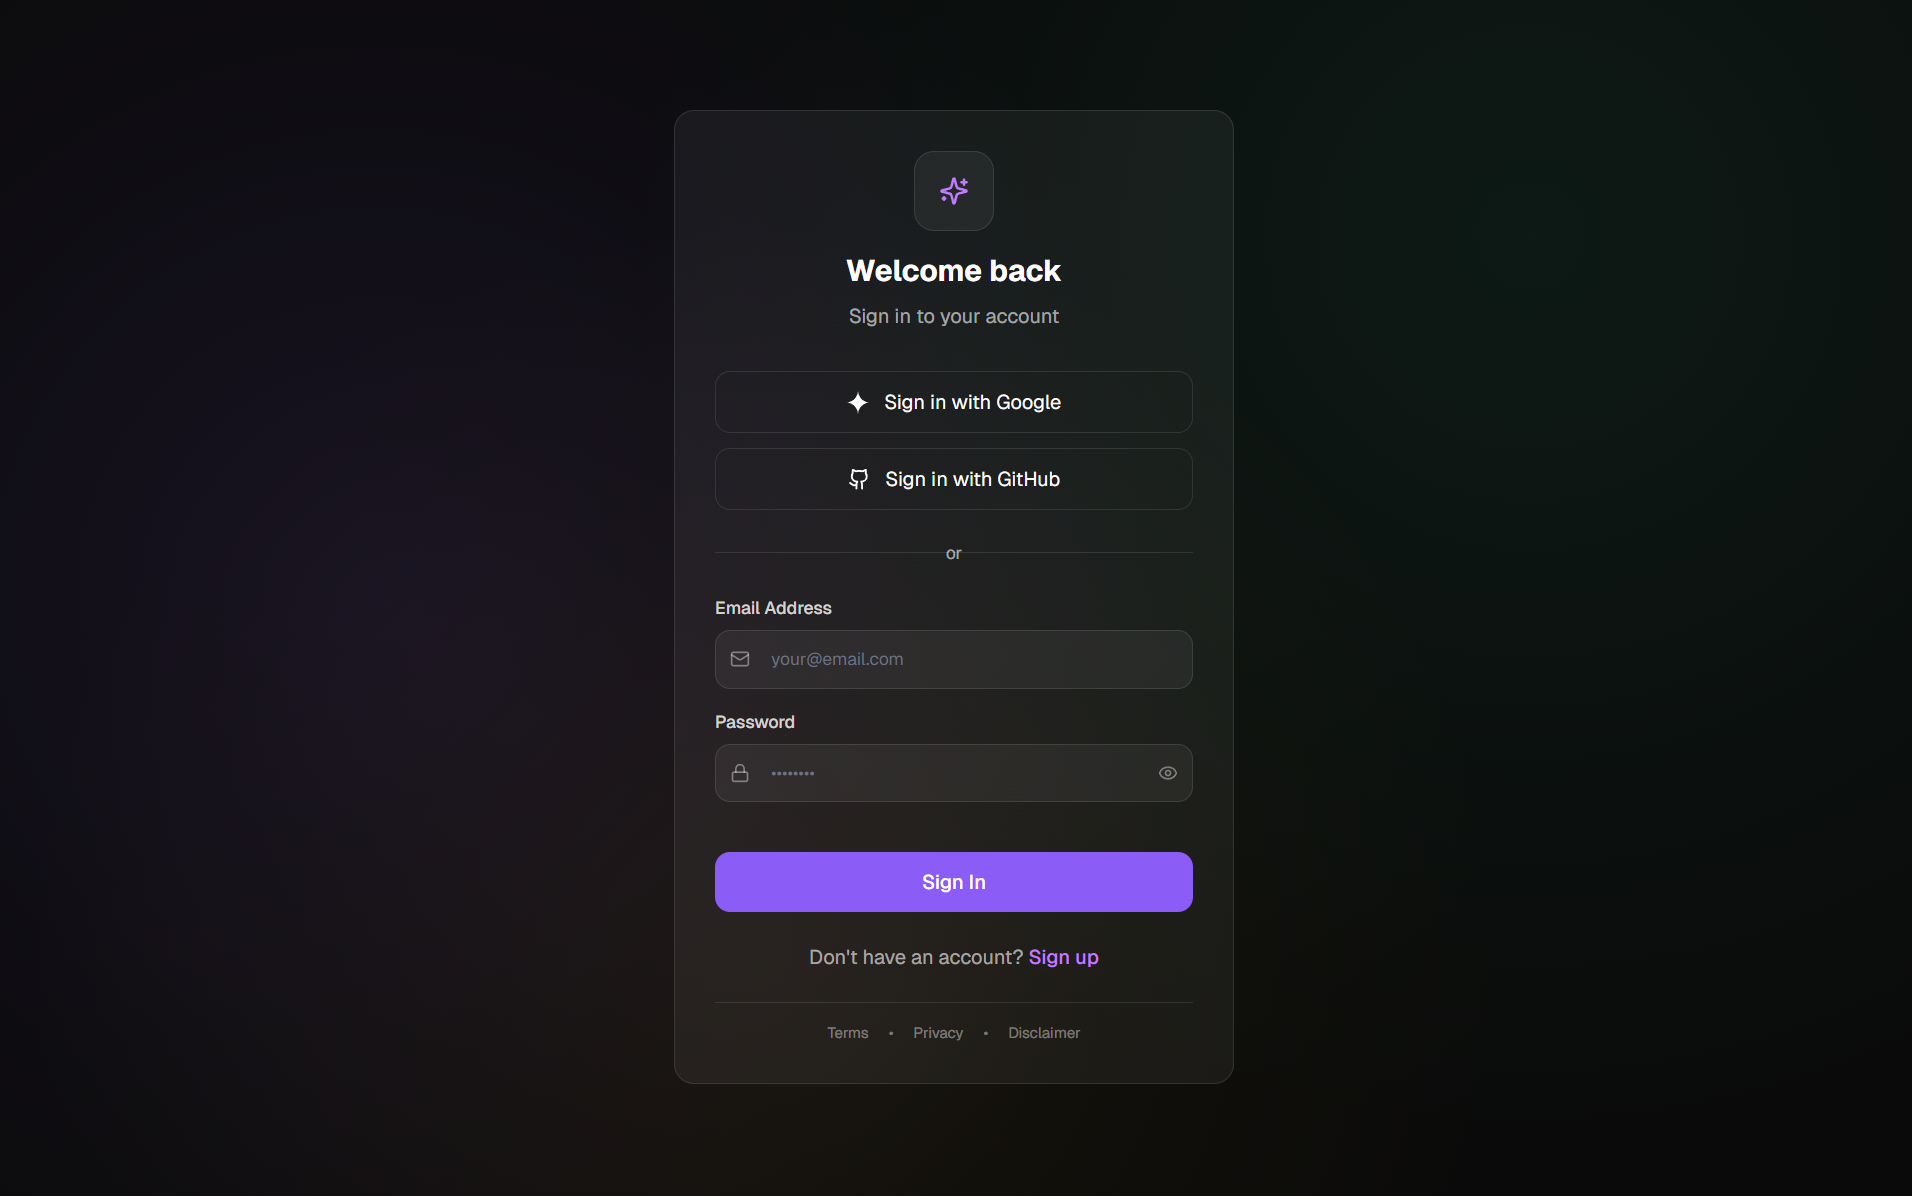
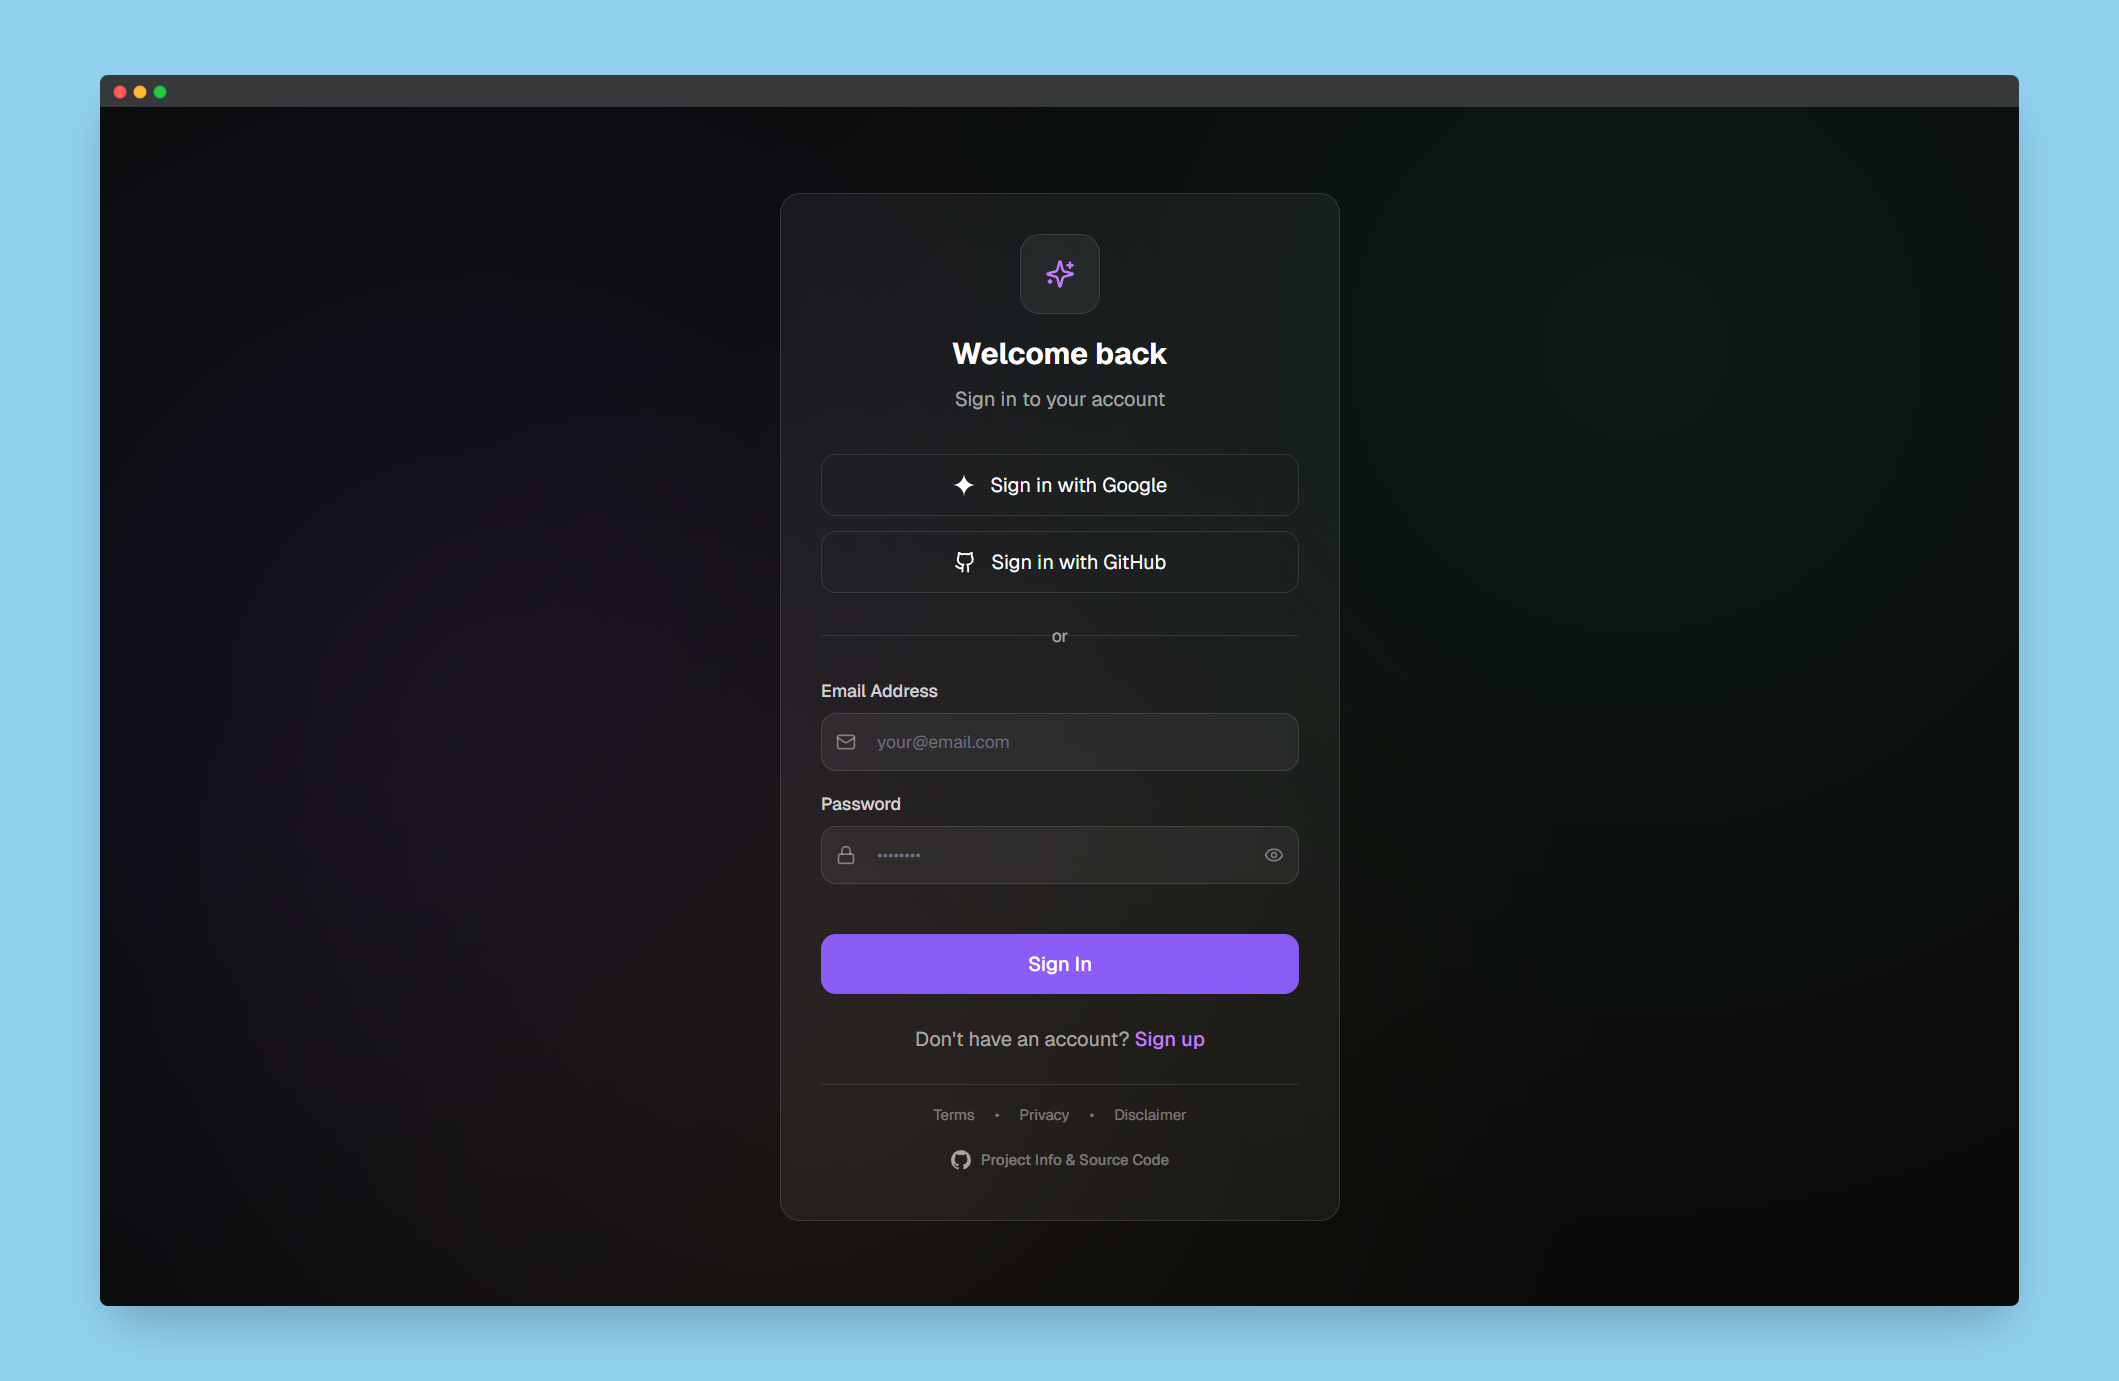
Update README.md to enhance project showcase with new sections and screenshots, including multi-model consensus chat, model selection, file attachments, and authentication features. Refresh existing content for clarity and improved visual representation.

Changed region(s): [[0.0, 0.0, 1.0, 1.0], [0.3703, 0.495, 0.648, 0.8662], [0.432, 0.1237, 0.5554, 0.4331]]

diff --git a/README.md b/README.md
@@ -1,99 +1,9 @@
-# T3 Chat Clone - Convex Chat - Cloneathon Submission
+# T3 Chat Clone - [Convex Chat](https://t3-cloneathon.lukeschroeter.de/) - Cloneathon Submission
 
-> **Live Demo:** [https://t3-clonathon.lukeschroeter.de/](https://t3-clonathon.lukeschroeter.de/)
+![T3 Chat Clone Showcase](./screenshots/showcase.png)
+*Modern AI chat application with multi-model consensus and advanced features*
 
-A modern, feature-rich AI chat application built for the T3 Chat Cloneathon hosted by Theo Browne. This submission showcases advanced chat capabilities with multi-model consensus, file attachments, and a beautiful, responsive interface.
-
-## 🏆 Competition Entry
-
-This project is my submission for the **T3 Chat Cloneathon** - a competition to build the best T3 Chat clone within one week, competing for a **$10,000+ prize pool**.
-
-**Competition Details:**
-- **Deadline:** June 17, 2025 at 12:00 PM PDT
-- **Prize Pool:** $10,000+ total
-- **Requirements:** Open source AI chat app with multiple LLM support and authentication
-
-## ✨ Features
-
-### Core Requirements ✅
-
-- **🤖 Multiple LLM Support** - Chat with 20+ AI models from leading providers
-- **🔐 Authentication & Sync** - Secure user authentication with chat history synchronization
-- **🌐 Browser Friendly** - Fully responsive web application
-- **🚀 Easy to Try** - Live demo available with guest access
-
-### Bonus Features ✅
-
-- **📎 File Attachments** - Upload and analyze images and PDFs
-- **🎯 Consensus Chat** - Get responses from multiple AI models simultaneously
-- **🎨 Syntax Highlighting** - Beautiful code formatting with highlight.js
-- **💾 Resumable Streams** - Continue conversations after page refresh
-- **🔑 Bring Your Own Key** - Use your own OpenRouter API key
-- **⚡ Real-time Streaming** - Live response streaming with typewriter effect
-
-## 🛠 Tech Stack
-
-- **Framework:** Next.js 15 with App Router
-- **Language:** TypeScript
-- **Styling:** Tailwind CSS 4
-- **Authentication:** Supabase Auth
-- **Database:** Supabase (PostgreSQL)
-- **AI Integration:** OpenRouter API
-- **Animations:** Framer Motion
-- **Icons:** Lucide React
-- **Markdown:** React Markdown with syntax highlighting
-
-## 🤖 Supported AI Models
-
-The application supports **20+ cutting-edge AI models** from major providers:
-
-### Google Models
-- Gemini 2.0 Flash (001 & Lite)
-- Gemini 2.5 Flash Preview
-- Gemini 2.5 Pro Preview
-
-### OpenAI Models
-- GPT-4o Mini & GPT-4o (2024-11-20)
-- GPT-4.1 (Full, Mini, Nano)
-- o3-mini
-- o4-mini
-
-### Anthropic Models
-- Claude Opus 4
-- Claude Sonnet 4
-- Claude 3.7 Sonnet
-- Claude 3.5 Sonnet
-
-### Meta Models
-- Llama 3.3 70B Instruct
-- Llama 4 Scout & Maverick
-
-### Other Providers
-- DeepSeek Chat V3 & R1 (Free)
-- X.AI Grok 3 Beta & Mini
-
-
-## 🧪 Testing Instructions
-
-### Quick Start Testing
-
-1. **Visit the Live Demo:** Navigate to [https://t3-clonathon.lukeschroeter.de/](https://t3-clonathon.lukeschroeter.de/)
-
-2. **Create an Account:** Register with your email address, github or google profile through the secure Supabase authentication system
-
-3. **Add Your API Key:** When prompted, enter your OpenRouter API key in the settings. This enables access to all 20+ AI models
-   - Don't have an OpenRouter key? Get one free at [openrouter.ai](https://openrouter.ai)
-   - Your key is encrypted and stored securely
-
-4. **Start Chatting:** You're ready to explore all features immediately!
-
-### Local Development Note
-
-**⚠ Local testing is currently not supported and not recommended.** The application relies on Supabase database functions with specialized configurations that are complex to replicate locally. The live demo provides the full, intended experience with all features working seamlessly.
-
-For the best testing experience and to evaluate all competition features, please use the deployed version above.
-
-## 📸 Screenshots
+## 🌟 Application Showcase
 
 ### Main Chat Interface
 ![Main Chat Interface](./screenshots/main-chat-01.png)
@@ -125,6 +35,46 @@ For the best testing experience and to evaluate all competition features, please
 ### Authentication
 ![Login Interface](./screenshots/login.png)
 *Secure authentication with Supabase*
+
+> **Live Demo:** [https://t3-cloneathon.lukeschroeter.de/](https://t3-cloneathon.lukeschroeter.de/)
+
+A modern, feature-rich AI chat application built for the T3 Chat Cloneathon hosted by Theo Browne. This submission showcases advanced chat capabilities with multi-model consensus, file attachments, and a beautiful, responsive interface.
+
+## 🏆 Competition Entry
+
+This project is my submission for the **T3 Chat Cloneathon** - a competition to build the best T3 Chat clone within one week, competing for a **$10,000+ prize pool**.
+
+## 🛠 Tech Stack
+
+- **Framework:** Next.js 15 with App Router
+- **Language:** TypeScript
+- **Styling:** Tailwind CSS 4
+- **Authentication:** Supabase Auth
+- **Database:** Supabase (PostgreSQL)
+- **AI Integration:** OpenRouter API
+- **Animations:** Framer Motion
+- **Icons:** Lucide React
+- **Markdown:** React Markdown with syntax highlighting
+
+## 🧪 Testing Instructions
+
+### Quick Start Testing
+
+1. **Visit the Live Demo:** Navigate to [https://t3-cloneathon.lukeschroeter.de/](https://t3-cloneathon.lukeschroeter.de/)
+
+2. **Create an Account:** Register with your email address, github or google profile through the secure Supabase authentication system
+
+3. **Add Your API Key:** When prompted, enter your OpenRouter API key in the settings. This enables access to all 20+ AI models
+   - Don't have an OpenRouter key? Get one free at [openrouter.ai](https://openrouter.ai)
+   - Your key is encrypted and stored securely
+
+4. **Start Chatting:** You're ready to explore all features immediately!
+
+### Local Development Note
+
+**⚠ Local testing is currently not supported and not recommended.** The application relies on Supabase database functions with specialized configurations that are complex to replicate locally. The live demo provides the full, intended experience with all features working seamlessly.
+
+For the best testing experience and to evaluate all competition features, please use the deployed version above.
 
 ## 🎯 Key Features Deep Dive
 
@@ -209,6 +159,36 @@ This T3 Chat clone goes beyond the basic requirements by offering:
 4. **Performance Optimized:** Fast, responsive, and efficient
 5. **Extensible Architecture:** Built for future enhancements
 6. **Production Ready:** Deployed and accessible with proper error handling
+
+## 🤖 Supported AI Models
+
+The application supports **20+ cutting-edge AI models** from major providers:
+
+### Google Models
+- Gemini 2.0 Flash (001 & Lite)
+- Gemini 2.5 Flash Preview
+- Gemini 2.5 Pro Preview
+
+### OpenAI Models
+- GPT-4o Mini & GPT-4o (2024-11-20)
+- GPT-4.1 (Full, Mini, Nano)
+- o3-mini
+- o4-mini
+
+### Anthropic Models
+- Claude Opus 4
+- Claude Sonnet 4
+- Claude 3.7 Sonnet
+- Claude 3.5 Sonnet
+
+### Meta Models
+- Llama 3.3 70B Instruct
+- Llama 4 Scout & Maverick
+
+### Other Providers
+- DeepSeek Chat V3 & R1 (Free)
+- X.AI Grok 3 Beta & Mini
+
 
 ## 📝 License
 
